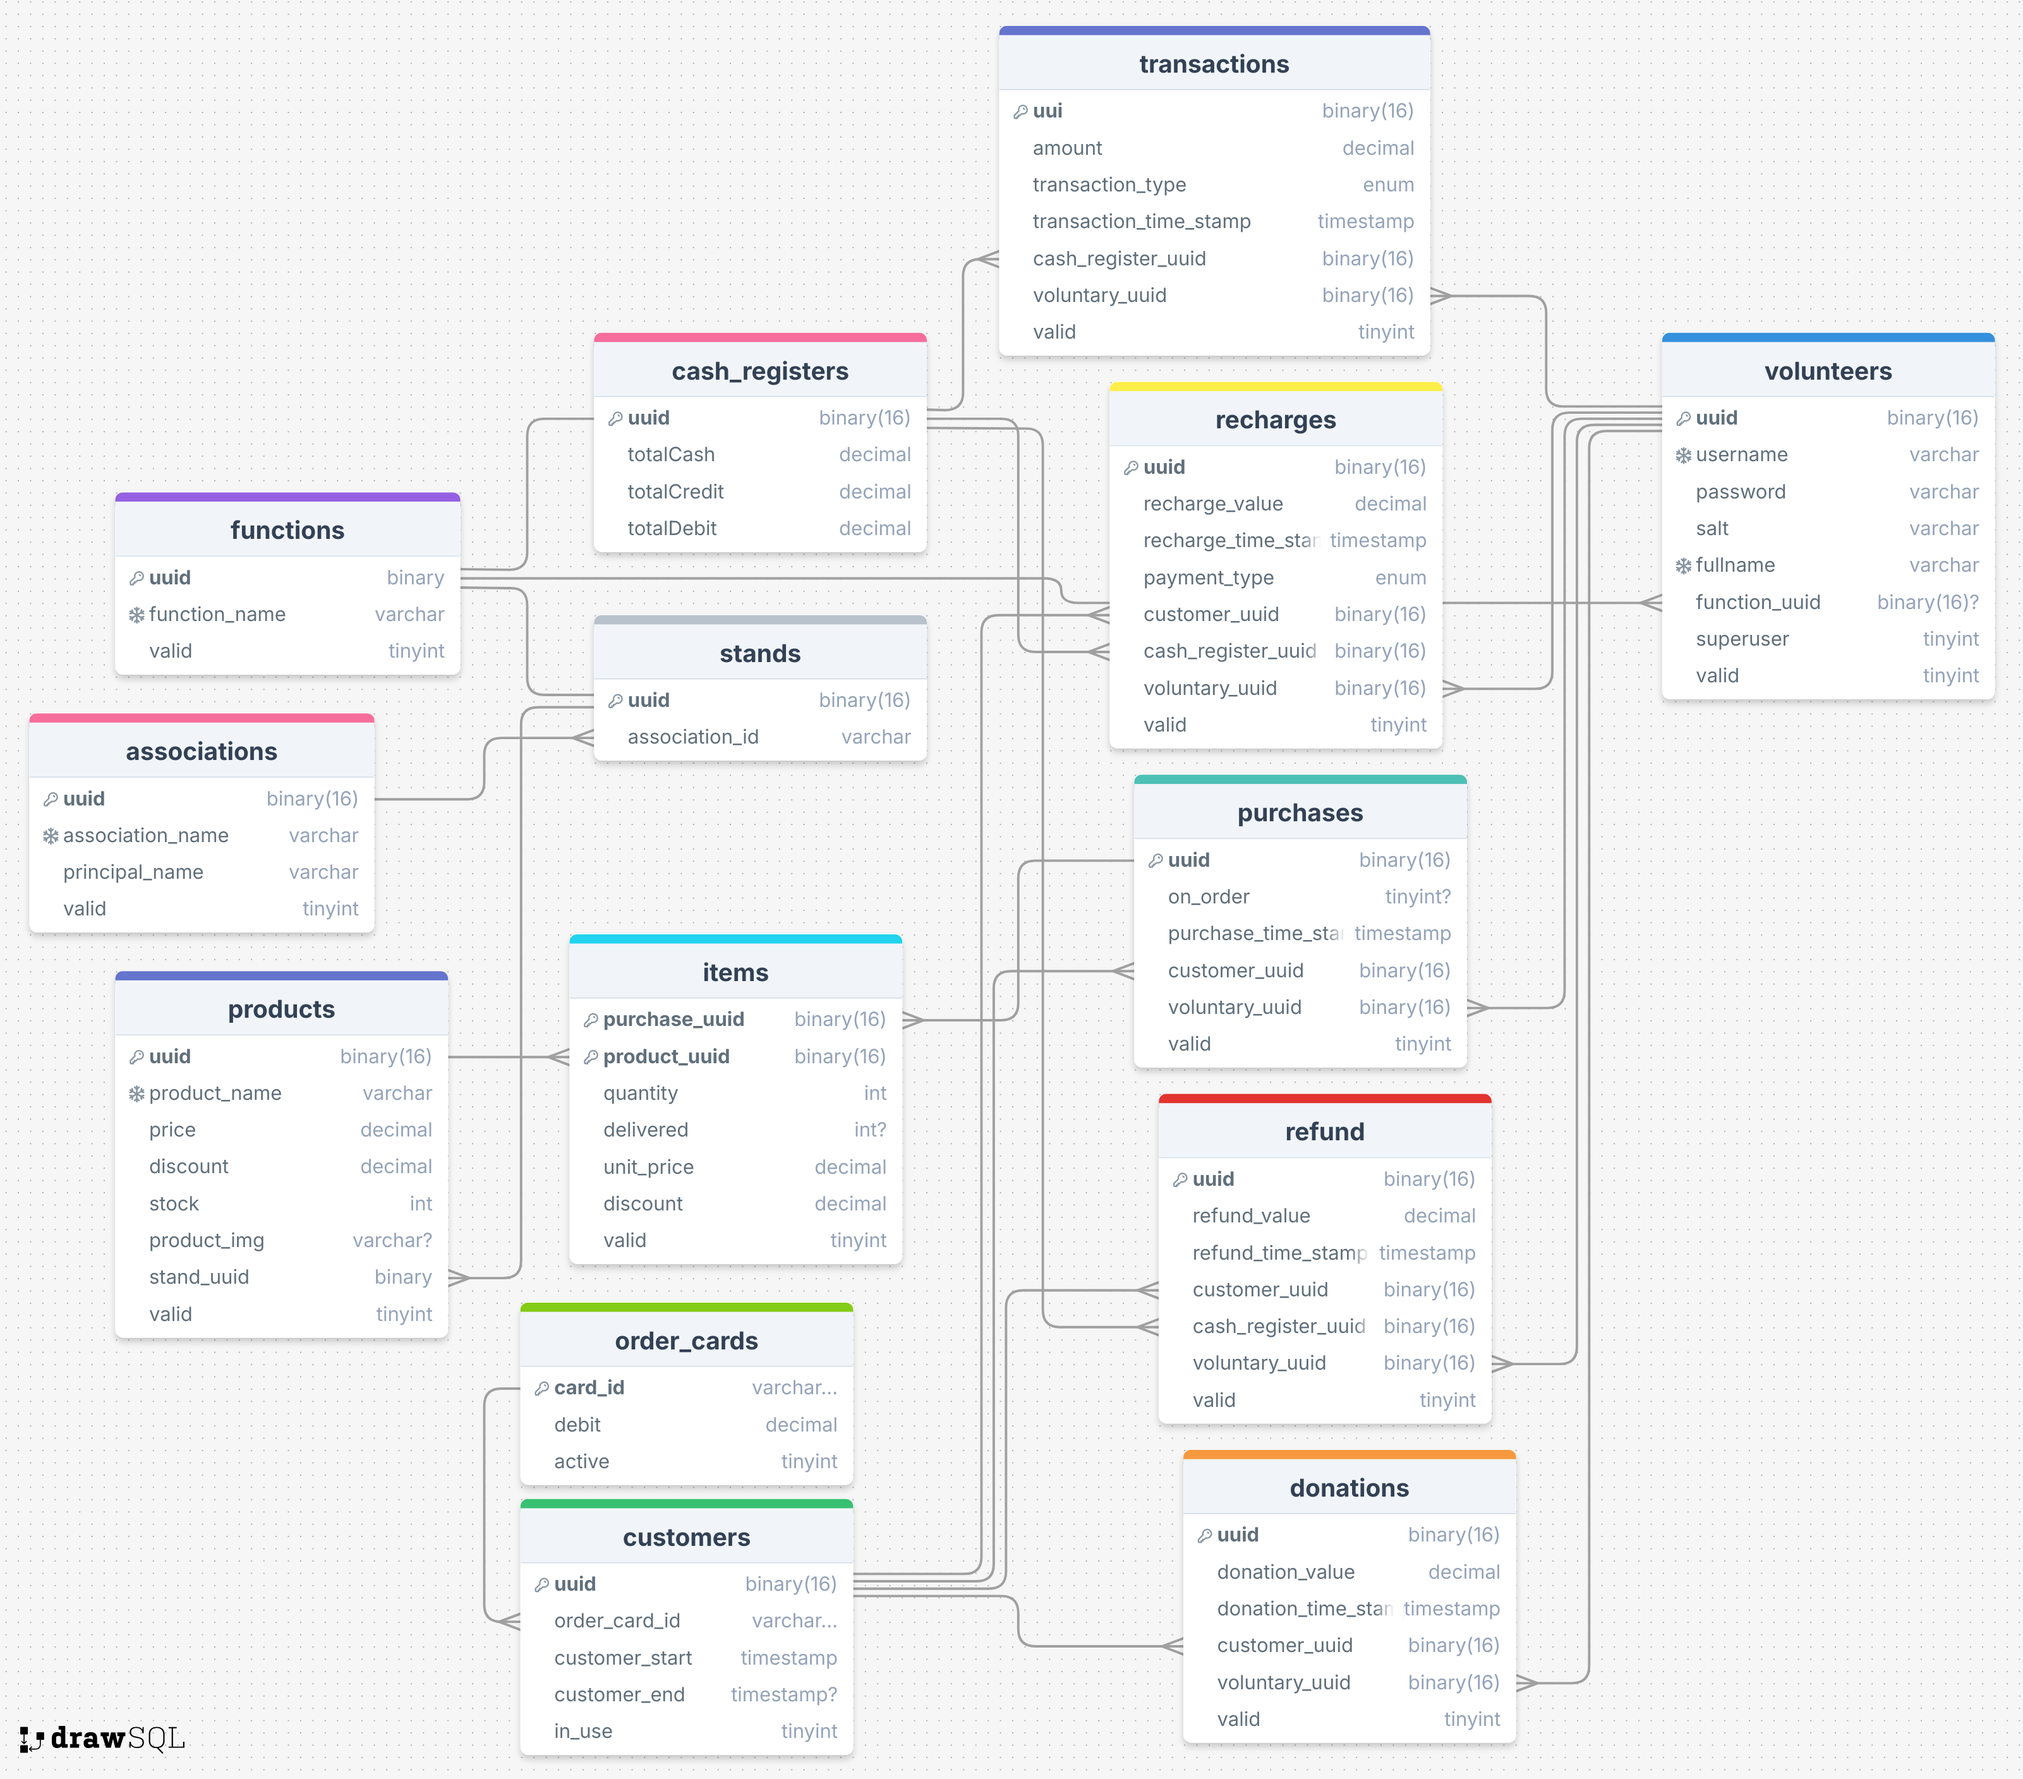
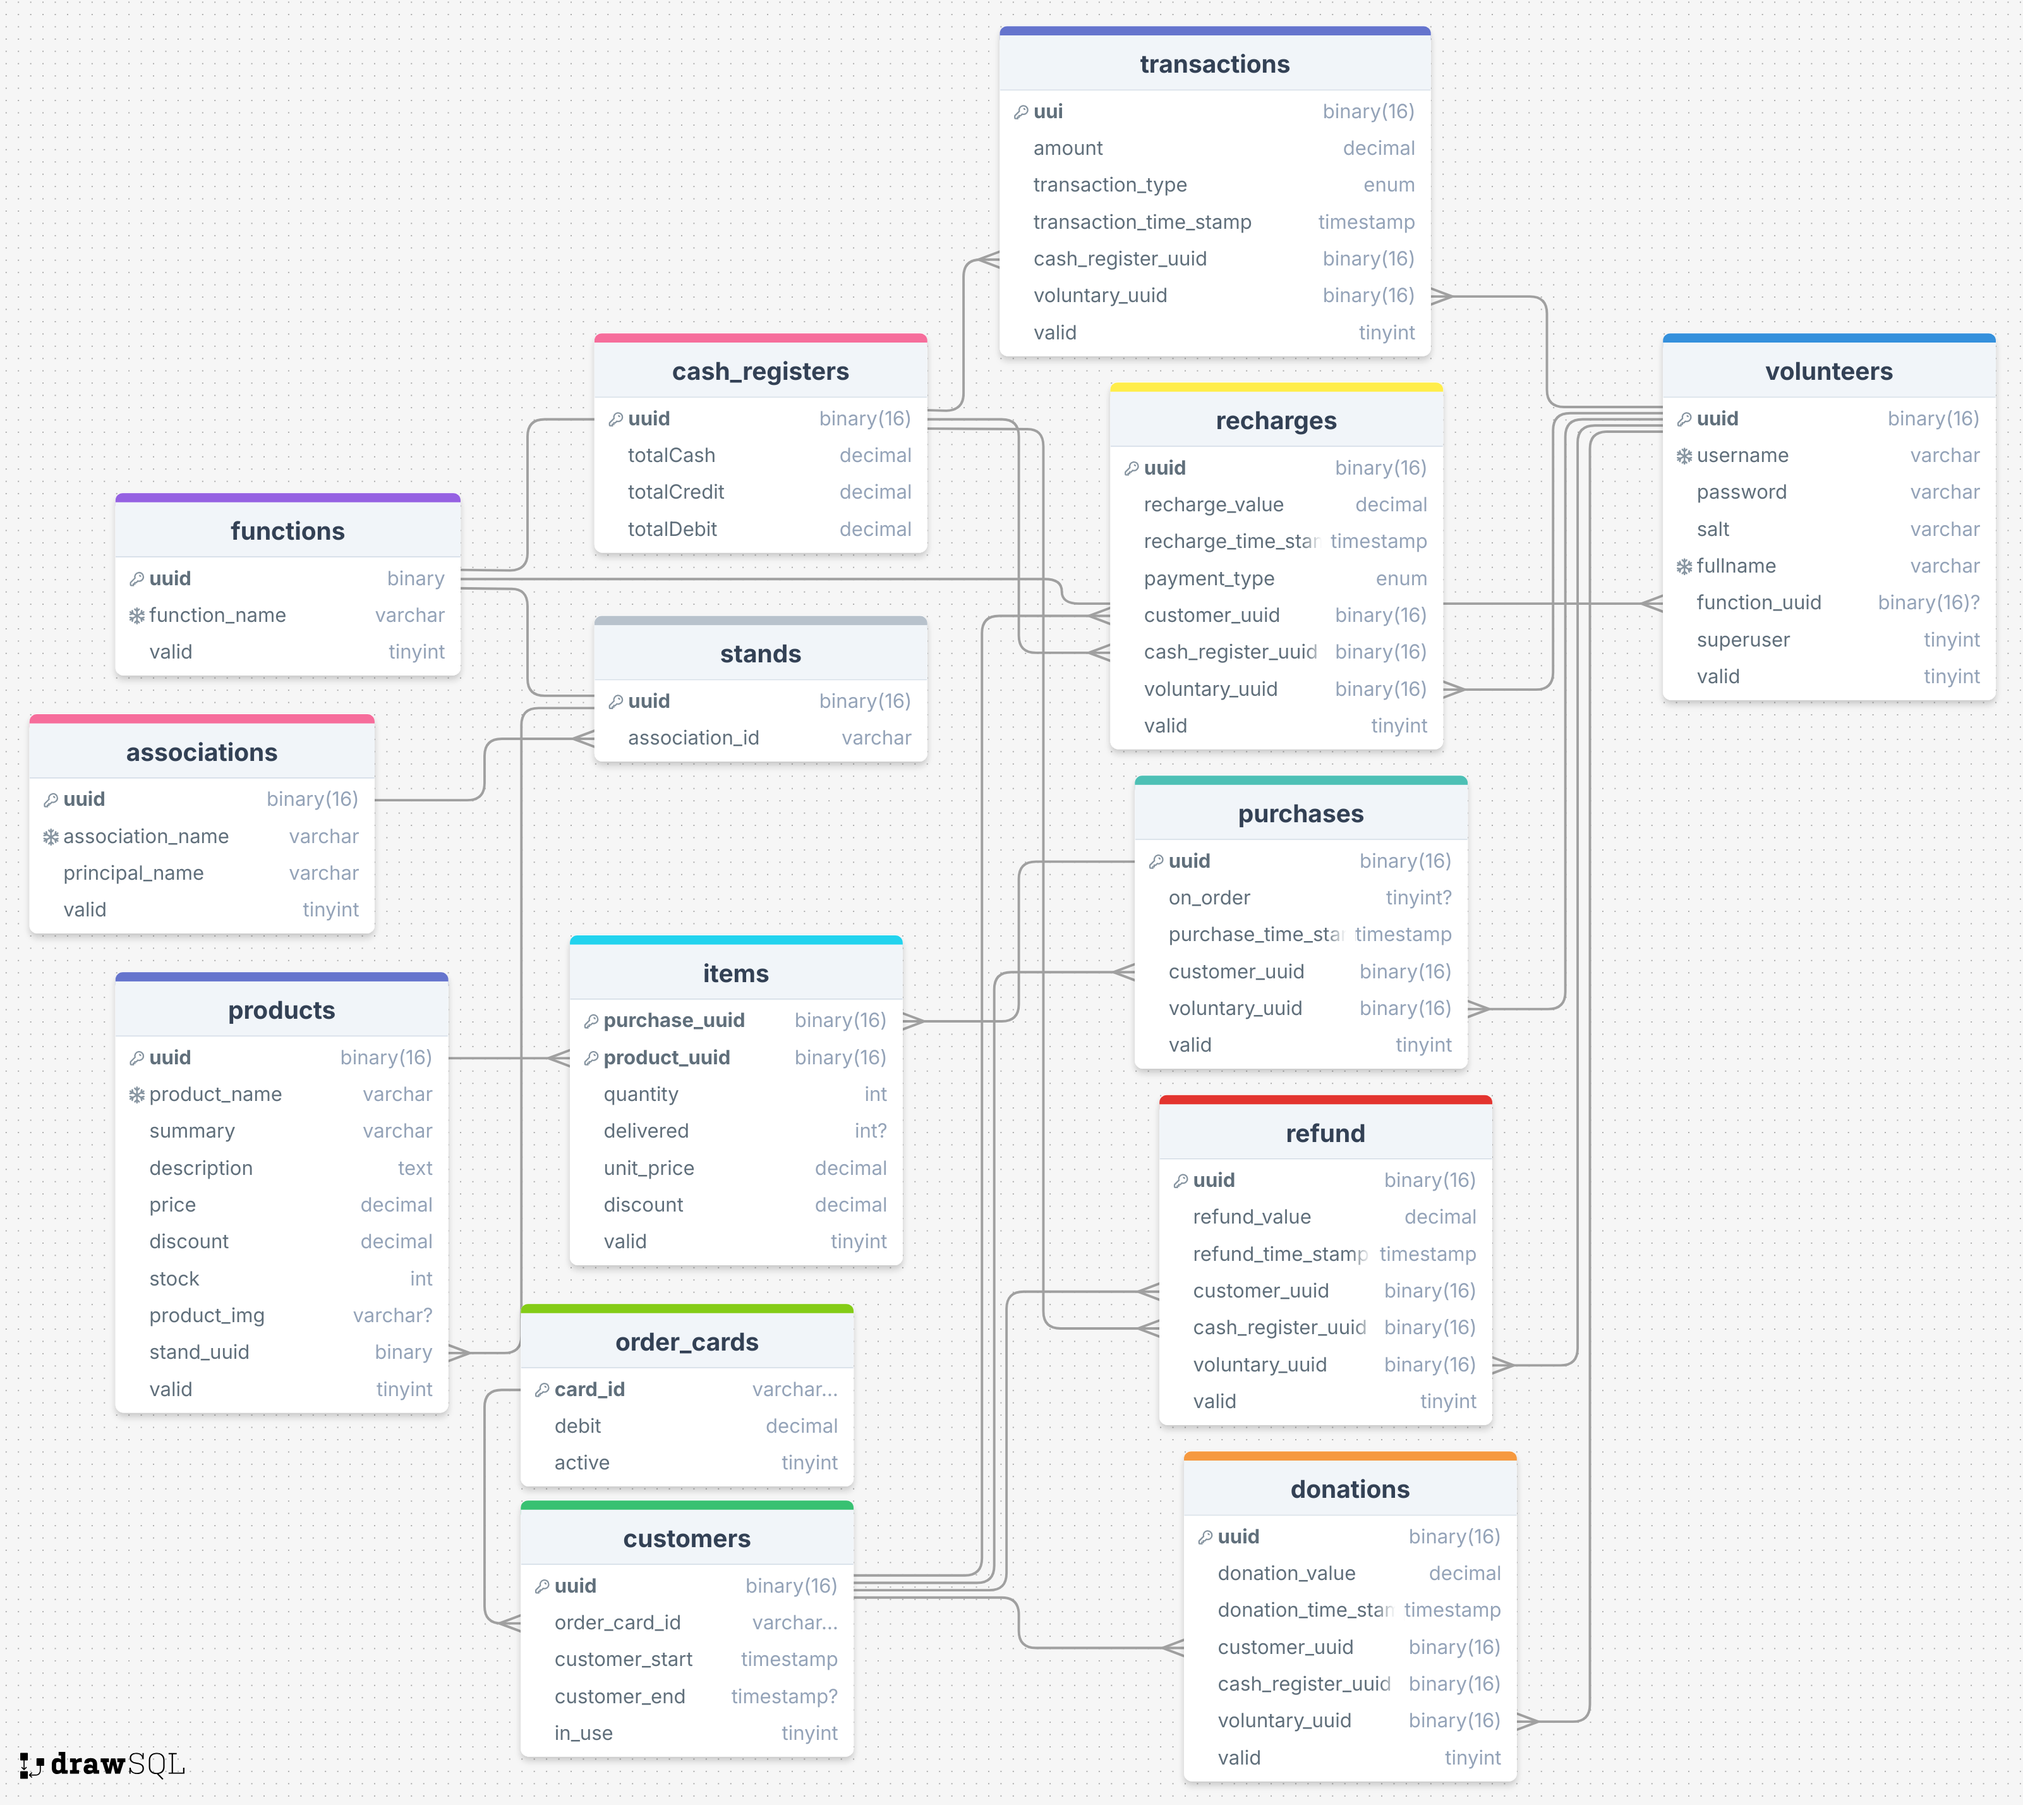
Add cash register in donation and update entity relation

diff --git a/backend/src/main/java/com/storecontrol/backend/services/operations/DonationService.java b/backend/src/main/java/com/storecontrol/backend/services/operations/DonationService.java
@@ -3,6 +3,7 @@ package com.storecontrol.backend.services.operations;
 import com.storecontrol.backend.models.customers.request.RequestCustomerFinalization;
 import com.storecontrol.backend.models.customers.Customer;
 import com.storecontrol.backend.models.operations.Donation;
+import com.storecontrol.backend.models.registers.CashRegister;
 import com.storecontrol.backend.models.volunteers.Voluntary;
 import com.storecontrol.backend.repositories.operations.DonationRepository;
 import com.storecontrol.backend.services.customers.component.CustomerFinalizationValidation;
@@ -30,6 +31,7 @@ public class DonationService {
   @Transactional
   public void createDonation(RequestCustomerFinalization request,
                              Customer customer,
+                             CashRegister cashRegister,
                              Voluntary voluntary) {
     var donationValue = request.donationValue();
 
@@ -37,7 +39,7 @@ public class DonationService {
     finalizationValidation.checkDonationValueValid(donationValue, customer);
 
     customer.getOrderCard().incrementDebit(donationValue.negate());
-    var donation = new Donation(request, customer, voluntary);
+    var donation = new Donation(request, customer, cashRegister, voluntary);
     customer.setDonations(List.of(donation));
 
     repository.save(donation);

diff --git a/backend/src/main/java/com/storecontrol/backend/models/operations/Donation.java b/backend/src/main/java/com/storecontrol/backend/models/operations/Donation.java
@@ -2,6 +2,7 @@ package com.storecontrol.backend.models.operations;
 
 import com.storecontrol.backend.models.customers.request.RequestCustomerFinalization;
 import com.storecontrol.backend.models.customers.Customer;
+import com.storecontrol.backend.models.registers.CashRegister;
 import com.storecontrol.backend.models.volunteers.Voluntary;
 import jakarta.persistence.*;
 import lombok.AllArgsConstructor;
@@ -31,6 +32,9 @@ public class Donation {
     @ManyToOne @JoinColumn(name = "customer_uuid", nullable = false)
     private Customer customer;
 
+    @ManyToOne @JoinColumn(name = "cash_register_uuid", nullable = false)
+    private CashRegister cashRegister;
+
     @Column(name = "voluntary_uuid", insertable = false, updatable = false)
     private UUID voluntaryUuid;
 
@@ -43,10 +47,12 @@ public class Donation {
 
     public Donation(RequestCustomerFinalization request,
                     Customer customer,
+                    CashRegister cashRegister,
                     Voluntary voluntary) {
         this.donationValue = request.donationValue();
         this.donationTimeStamp = LocalDateTime.now();
         this.customer = customer;
+        this.cashRegister = cashRegister;
         this.voluntary = voluntary;
         this.valid = true;
     }

diff --git a/backend/src/main/java/com/storecontrol/backend/services/customers/CustomerFinalizationHandler.java b/backend/src/main/java/com/storecontrol/backend/services/customers/CustomerFinalizationHandler.java
@@ -52,7 +52,7 @@ public class CustomerFinalizationHandler {
           refundService.createRefund(request, customer, cashRegister, voluntary);
         }
         if (request.donationValue().compareTo(BigDecimal.ZERO) > 0) {
-          donationService.createDonation(request, customer, voluntary);
+          donationService.createDonation(request, customer, cashRegister, voluntary);
         }
       } else {
         throw new InvalidCustomerException("Customer finalization", "Sum of donation and refund is not equal remaining debit");

diff --git a/backend/src/test/java/com/storecontrol/backend/TestDataFactory.java b/backend/src/test/java/com/storecontrol/backend/TestDataFactory.java
@@ -90,6 +90,7 @@ public class TestDataFactory {
         BigDecimal.TWO,
         LocalDateTime.now(),
         customer,
+        createCashRegisterEntity(UUID.randomUUID()),
         voluntaryUUID,
         createVoluntaryEntity(voluntaryUUID),
         true
